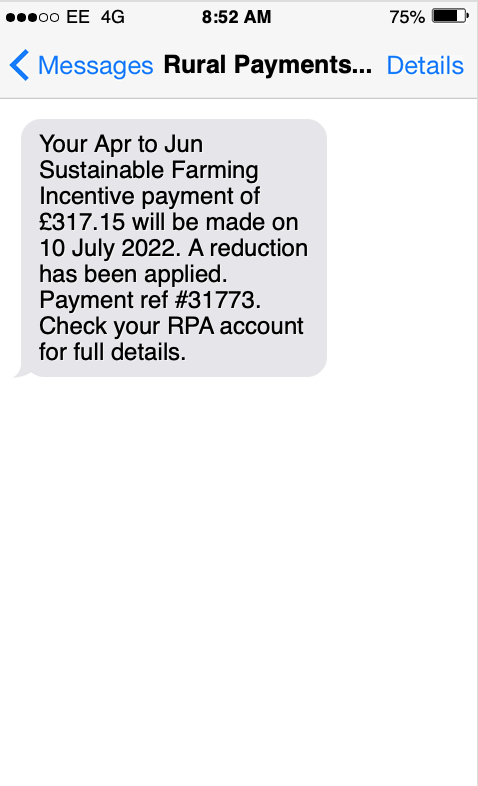
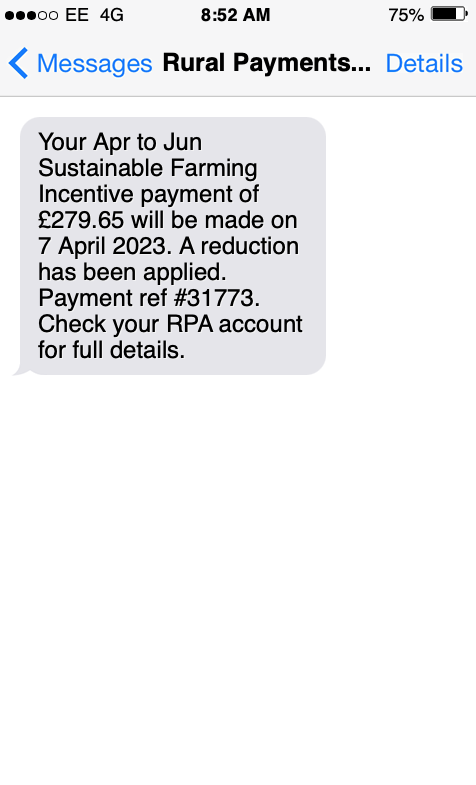
amount fix

diff --git a/app/views/1/payments.html b/app/views/1/payments.html
@@ -79,7 +79,7 @@
 
         <div class="govuk-inset-text">
             <h3 class="govuk-heading-m">Next payment:</h3>
-            <p>Your quarterly SFI payment for April to June 2022 is <b>£289.65</b></p>
+            <p>Your quarterly SFI payment for April to June 2022 is <b>£279.65</b></p>
 
             <p>We will pay this into your account on <b>10 July 2022</b>.</p>
         </div>
@@ -321,7 +321,7 @@
                     <td class="govuk-table__cell">31773</td>
                     <td class="govuk-table__cell">10 July 2022</td>
                     <td class="govuk-table__cell">{{ data['maintitle'] }} Year 1: 1 of 4</td>
-                    <td class="govuk-table__cell">£289.65 <br /> </td>
+                    <td class="govuk-table__cell">£279.65 <br /> </td>
                     <td class="govuk-table__cell">
                         <a href="payment-statement-31773.html" target="_blank">View payment statement (PDF)</a>
                     </td>
@@ -338,7 +338,7 @@
                     <td class="govuk-table__cell">31773</td>
                     <td class="govuk-table__cell">10 July 2022</td>
                     <td class="govuk-table__cell">{{ data['maintitle'] }} Year 1: 1 of 4</td>
-                    <td class="govuk-table__cell">£289.65 <br /> </td>
+                    <td class="govuk-table__cell">£279.65 <br /> </td>
                     <td class="govuk-table__cell">
                         <a href="payment-statement-31773.html" target="_blank">View payment statement (PDF)</a>
                     </td>

diff --git a/app/views/1/payment-statement-31773.html b/app/views/1/payment-statement-31773.html
@@ -132,7 +132,7 @@
 
             <div class="govuk-grid-column-full">
 
-                <p><b>Your quarterly SFI payment for April to June 2022 is £289.65</b></p>
+                <p><b>Your quarterly SFI payment for April to June 2022 is £279.65</b></p>
 
                 <p>We will pay this into your account on 10 July 2022.</p>
 
